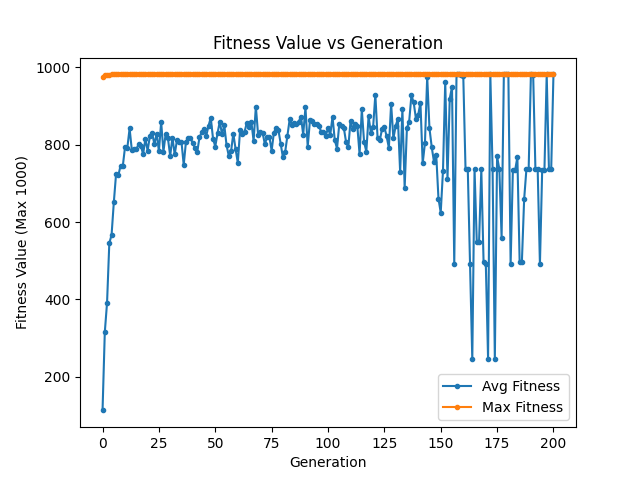
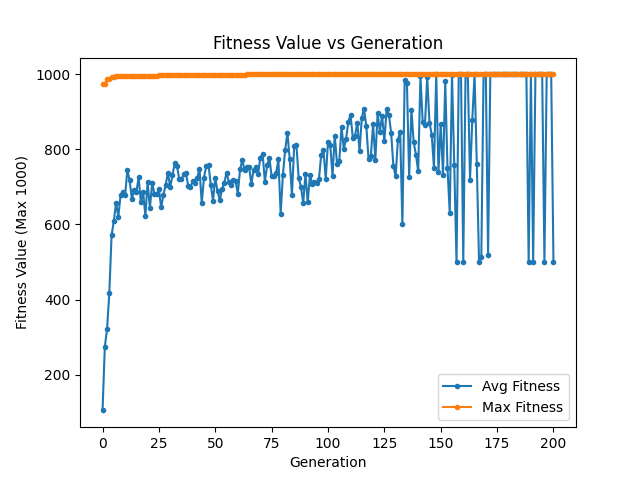
GEP solution found perfect solution

diff --git a/prediction_vs_truth.py b/prediction_vs_truth.py
@@ -139,7 +139,7 @@ y_true = df['output']
 x = df[['input1','input2']]
 
 # declare the chromosome and the variable dictionary
-chromosome = ['/', 'a', '+', '(exp)', '(exp)', '*', '(X2)', 'b', 'b', 'a', 'a', 'b', '/', 'a', 'b', 'a', 'a', 'b', 'b', 'a', 'b', 'b', 'b', 'a', 'b', 'b', 'a', '4', '8', '4', '1', '5', '0', '13', '9', '13', '1', '11', '6', '4', '10']
+chromosome = ['/', 'a', '(exp)', '+', '(X2)', '(X2)', 'a', 'b', '/', 'a', '(exp)', 'a', 'a', 'b', 'a', 'b', 'a', 'b', 'a', 'a', 'b', 'a', 'b', 'a', 'b', 'b', 'a', '10', '5', '5', '2', '1', '13', '10', '2', '10', '11', '1', '1', '11', '12']
 term_set = ['a','b']
 const_list = [9.085438328853577, 12.541568931269392, 14.228939030815598, 1.7243040260042173, 9.927060931656424, 13.910065740856533, 11.923836084853418, 12.466478431804356, 10.316798354700671, 11.526828984322051, 9.37978289606355, 3.3828761393003153, 13.466390125971392, 1.095020280549908]
 
